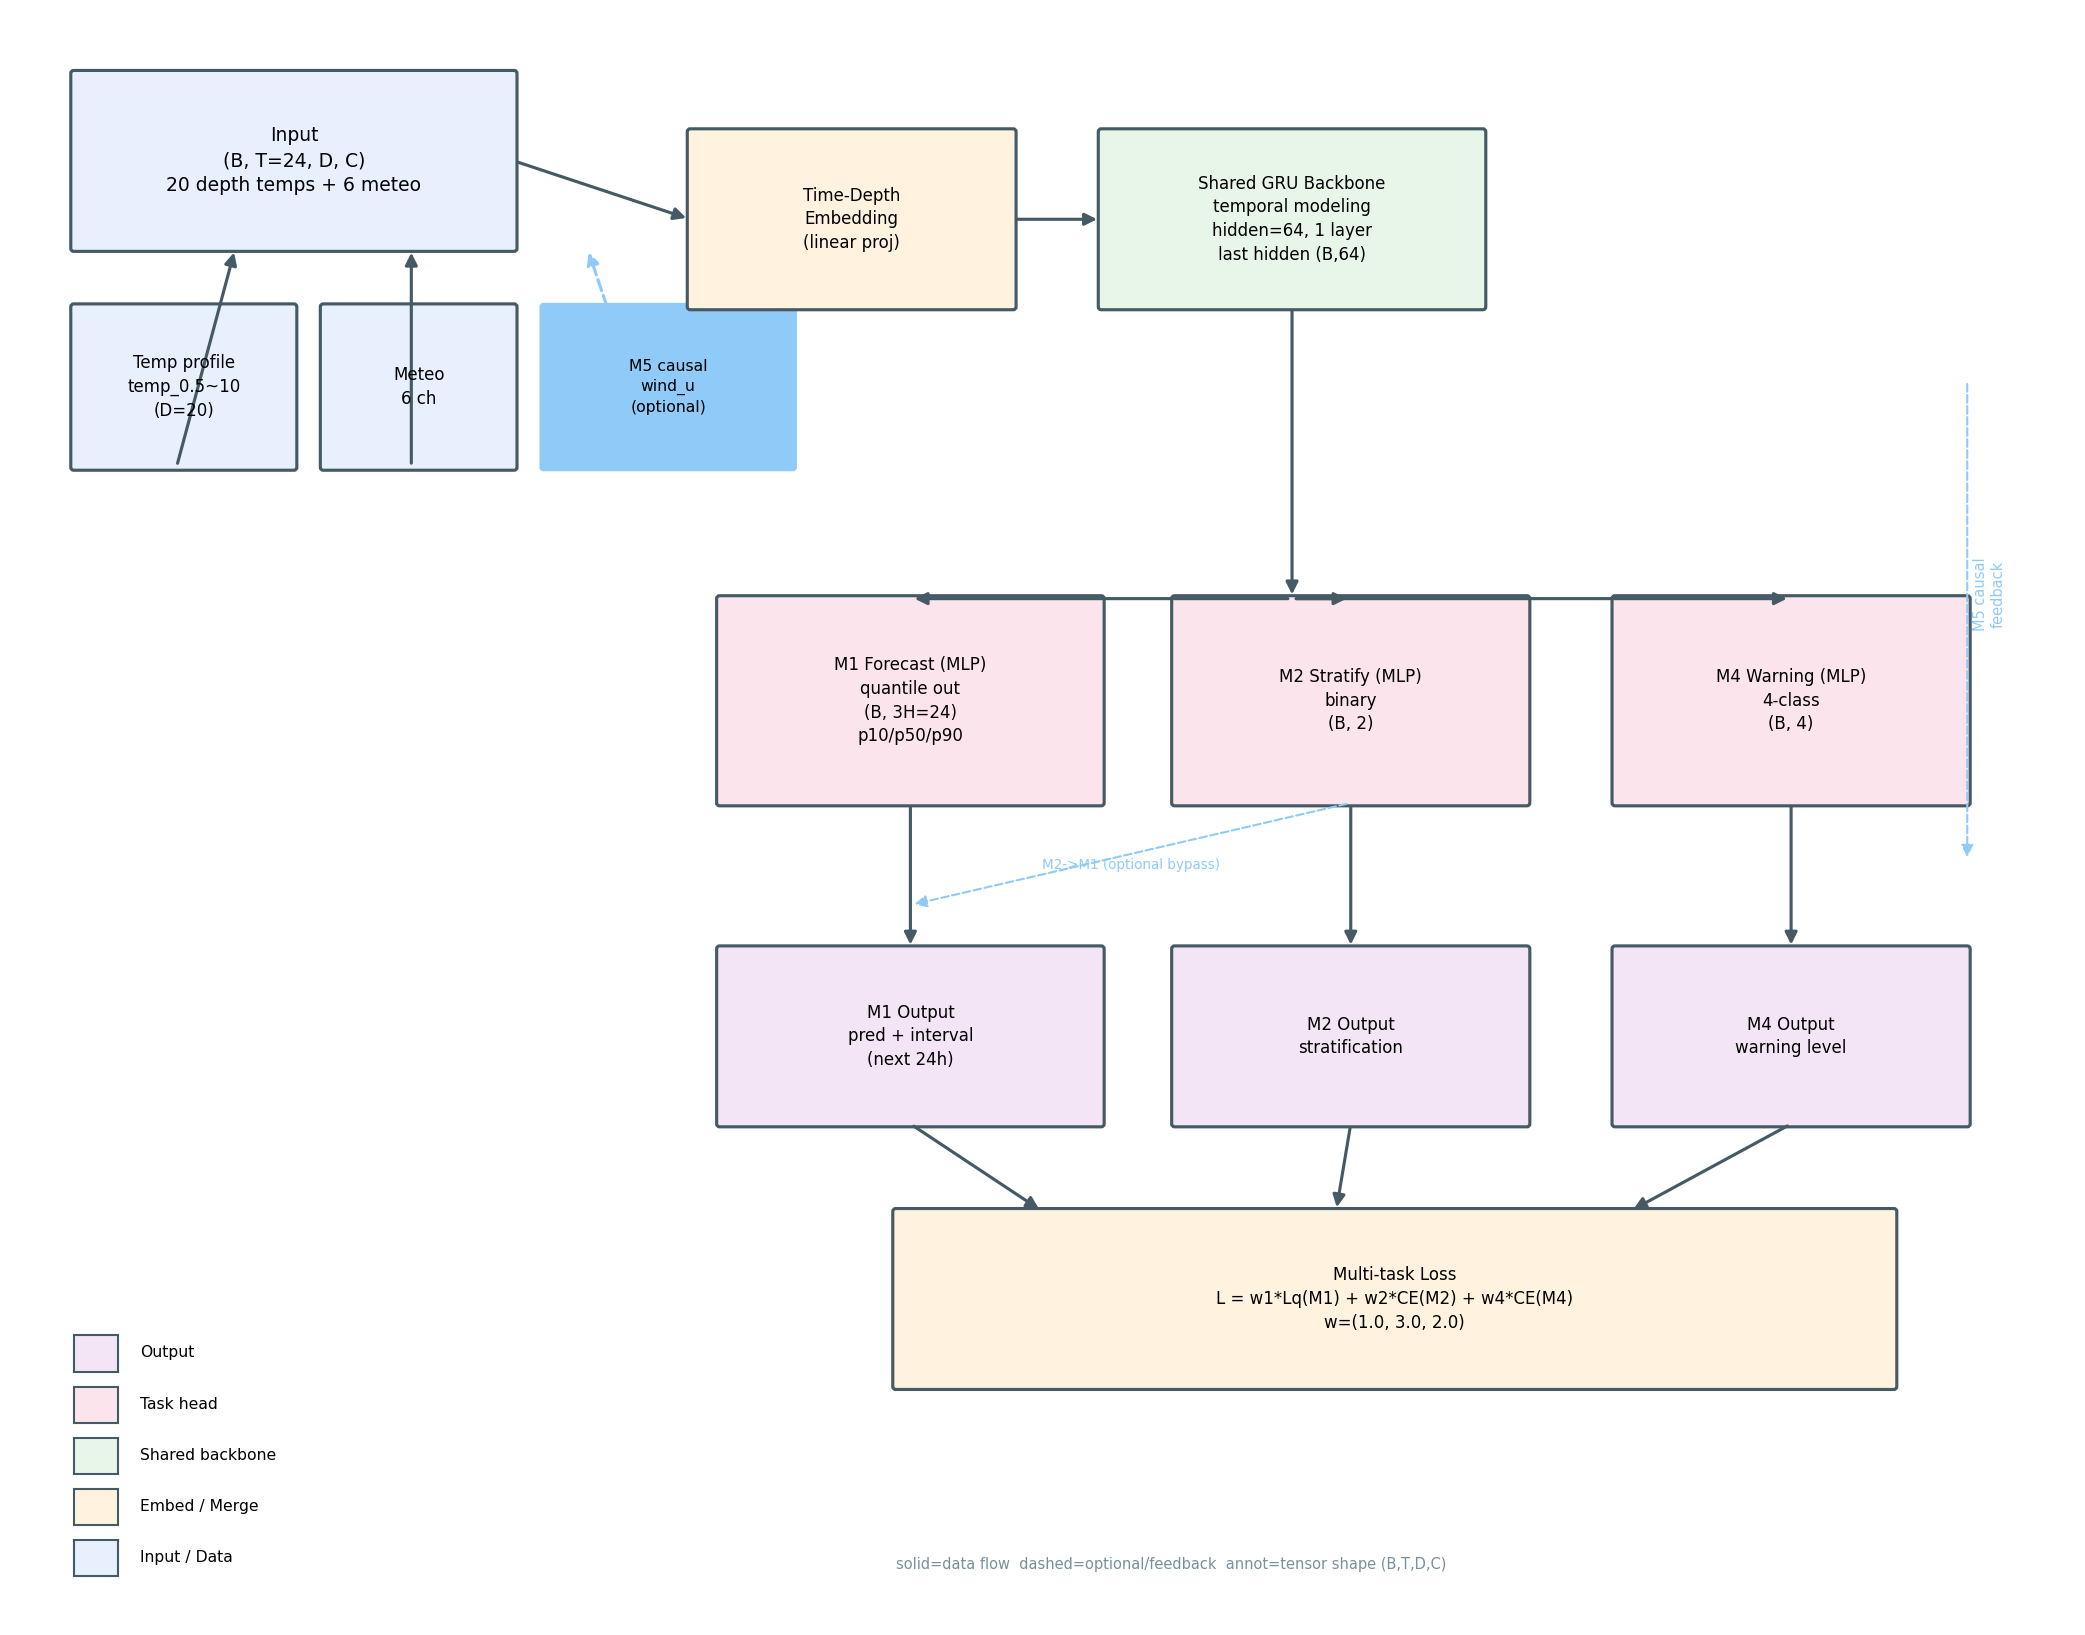
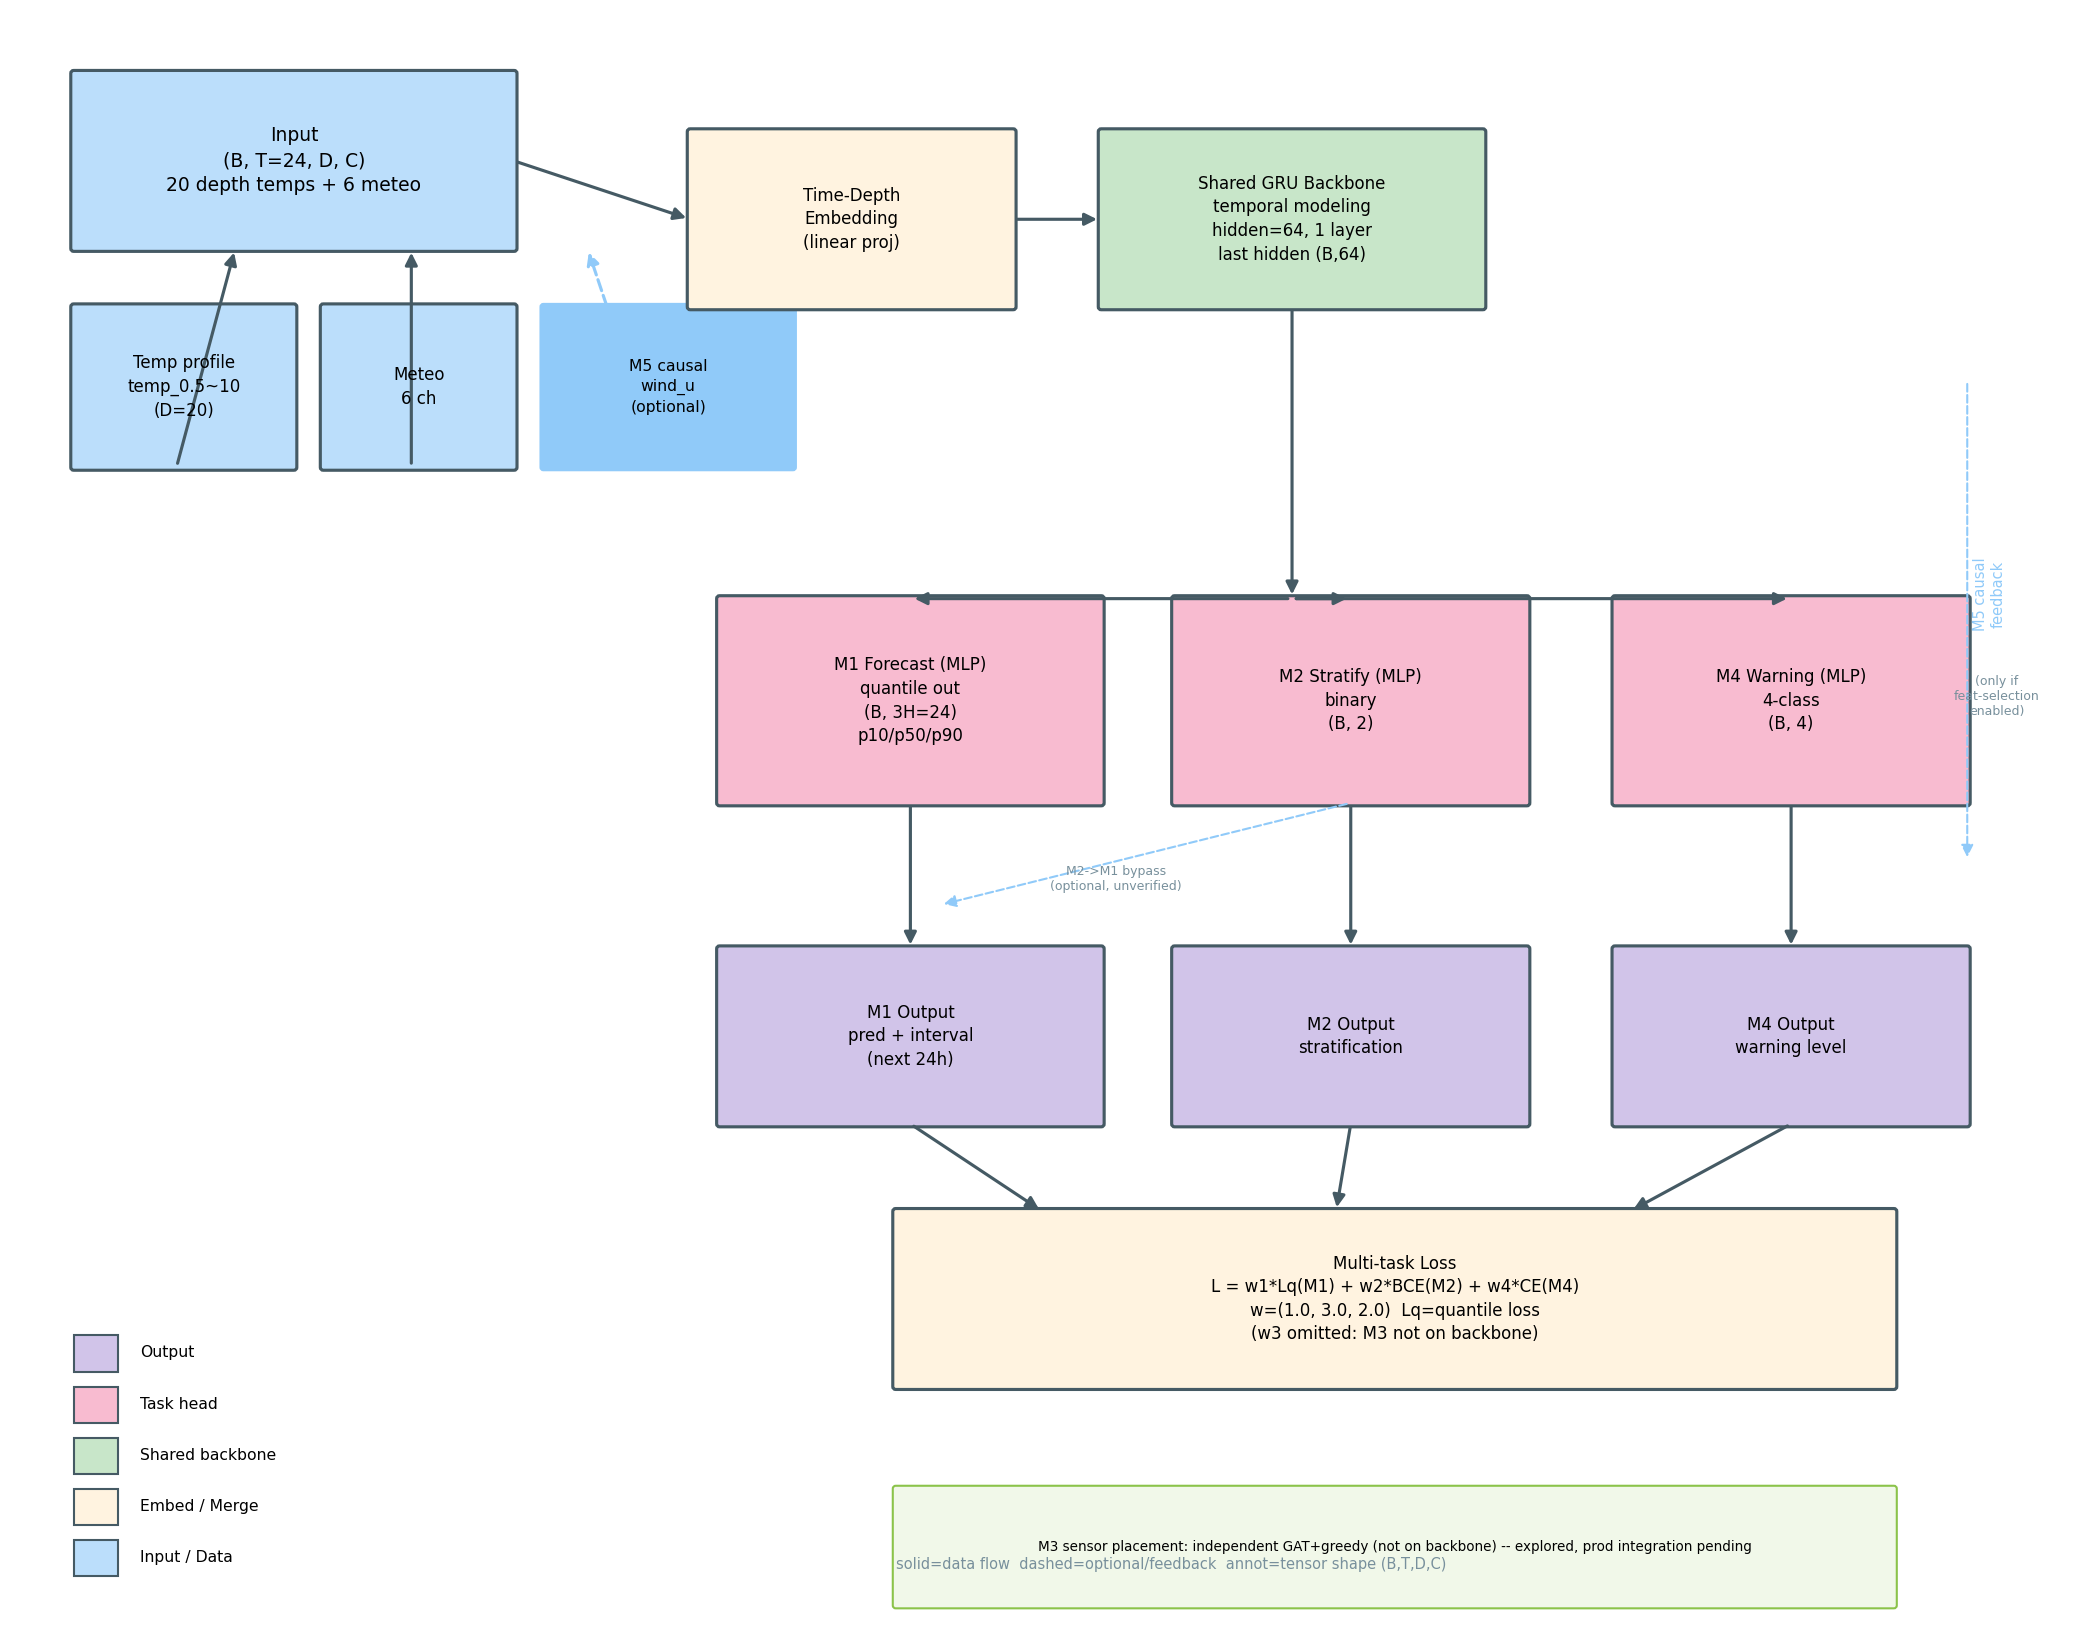
docs: 架构图按视觉评审修正（Loss公式/BCE/CE/w3说明/M3标注/颜色）

diff --git a/scripts/explore/plot_architecture_en.py b/scripts/explore/plot_architecture_en.py
@@ -15,11 +15,11 @@ ax.set_xlim(0, 14)
 ax.set_ylim(0, 11)
 ax.axis("off")
 
-C_INPUT = "#E8F0FE"
+C_INPUT = "#BBDEFB"   # 深一点蓝
 C_EMBED = "#FFF3E0"
-C_BACKBONE = "#E8F5E9"
-C_HEAD = "#FCE4EC"
-C_OUT = "#F3E5F5"
+C_BACKBONE = "#C8E6C9"  # 深一点绿
+C_HEAD = "#F8BBD0"
+C_OUT = "#D1C4E9"     # 紫
 C_FEED = "#90CAF9"
 EDGE = "#455A64"
 
@@ -70,7 +70,7 @@ arrow(9.1, 5.6, 9.1, 4.6)
 arrow(12.1, 5.6, 12.1, 4.6)
 
 # ===== 6. Loss =====
-box(6.0, 1.6, 6.8, 1.2, "Multi-task Loss\nL = w1*Lq(M1) + w2*CE(M2) + w4*CE(M4)\nw=(1.0, 3.0, 2.0)", C_EMBED, fs=8)
+box(6.0, 1.6, 6.8, 1.2, "Multi-task Loss\nL = w1*Lq(M1) + w2*BCE(M2) + w4*CE(M4)\nw=(1.0, 3.0, 2.0)  Lq=quantile loss\n(w3 omitted: M3 not on backbone)", C_EMBED, fs=8)
 arrow(6.1, 3.4, 7.0, 2.8)
 arrow(9.1, 3.4, 9.0, 2.8)
 arrow(12.1, 3.4, 11.0, 2.8)
@@ -78,8 +78,14 @@ arrow(12.1, 3.4, 11.0, 2.8)
 # ===== 7. Feedback =====
 arrow(13.3, 8.5, 13.3, 5.2, color=C_FEED, ls="--", lw=1)
 ax.text(13.45, 6.8, "M5 causal\nfeedback", fontsize=7, color=C_FEED, rotation=90, ha="center")
-arrow(9.1, 5.6, 6.1, 4.9, color=C_FEED, ls="--", lw=1)
-ax.text(7.6, 5.15, "M2->M1 (optional bypass)", fontsize=6.5, color=C_FEED, ha="center")
+ax.text(13.5, 6.2, "(only if\nfeat-selection\nenabled)", fontsize=6, color="#78909C", ha="center")
+arrow(9.1, 5.6, 6.3, 4.9, color=C_FEED, ls="--", lw=1)
+ax.text(7.5, 5.0, "M2->M1 bypass\n(optional, unverified)", fontsize=6, color="#78909C", ha="center")
+
+# ===== 8. M3 note =====
+box(6.0, 0.1, 6.8, 0.8,
+    "M3 sensor placement: independent GAT+greedy (not on backbone) -- explored, prod integration pending",
+    "#F1F8E9", fs=6.5, lw=1, ec="#8BC34A")
 
 # ===== Legend =====
 legend_items = [
